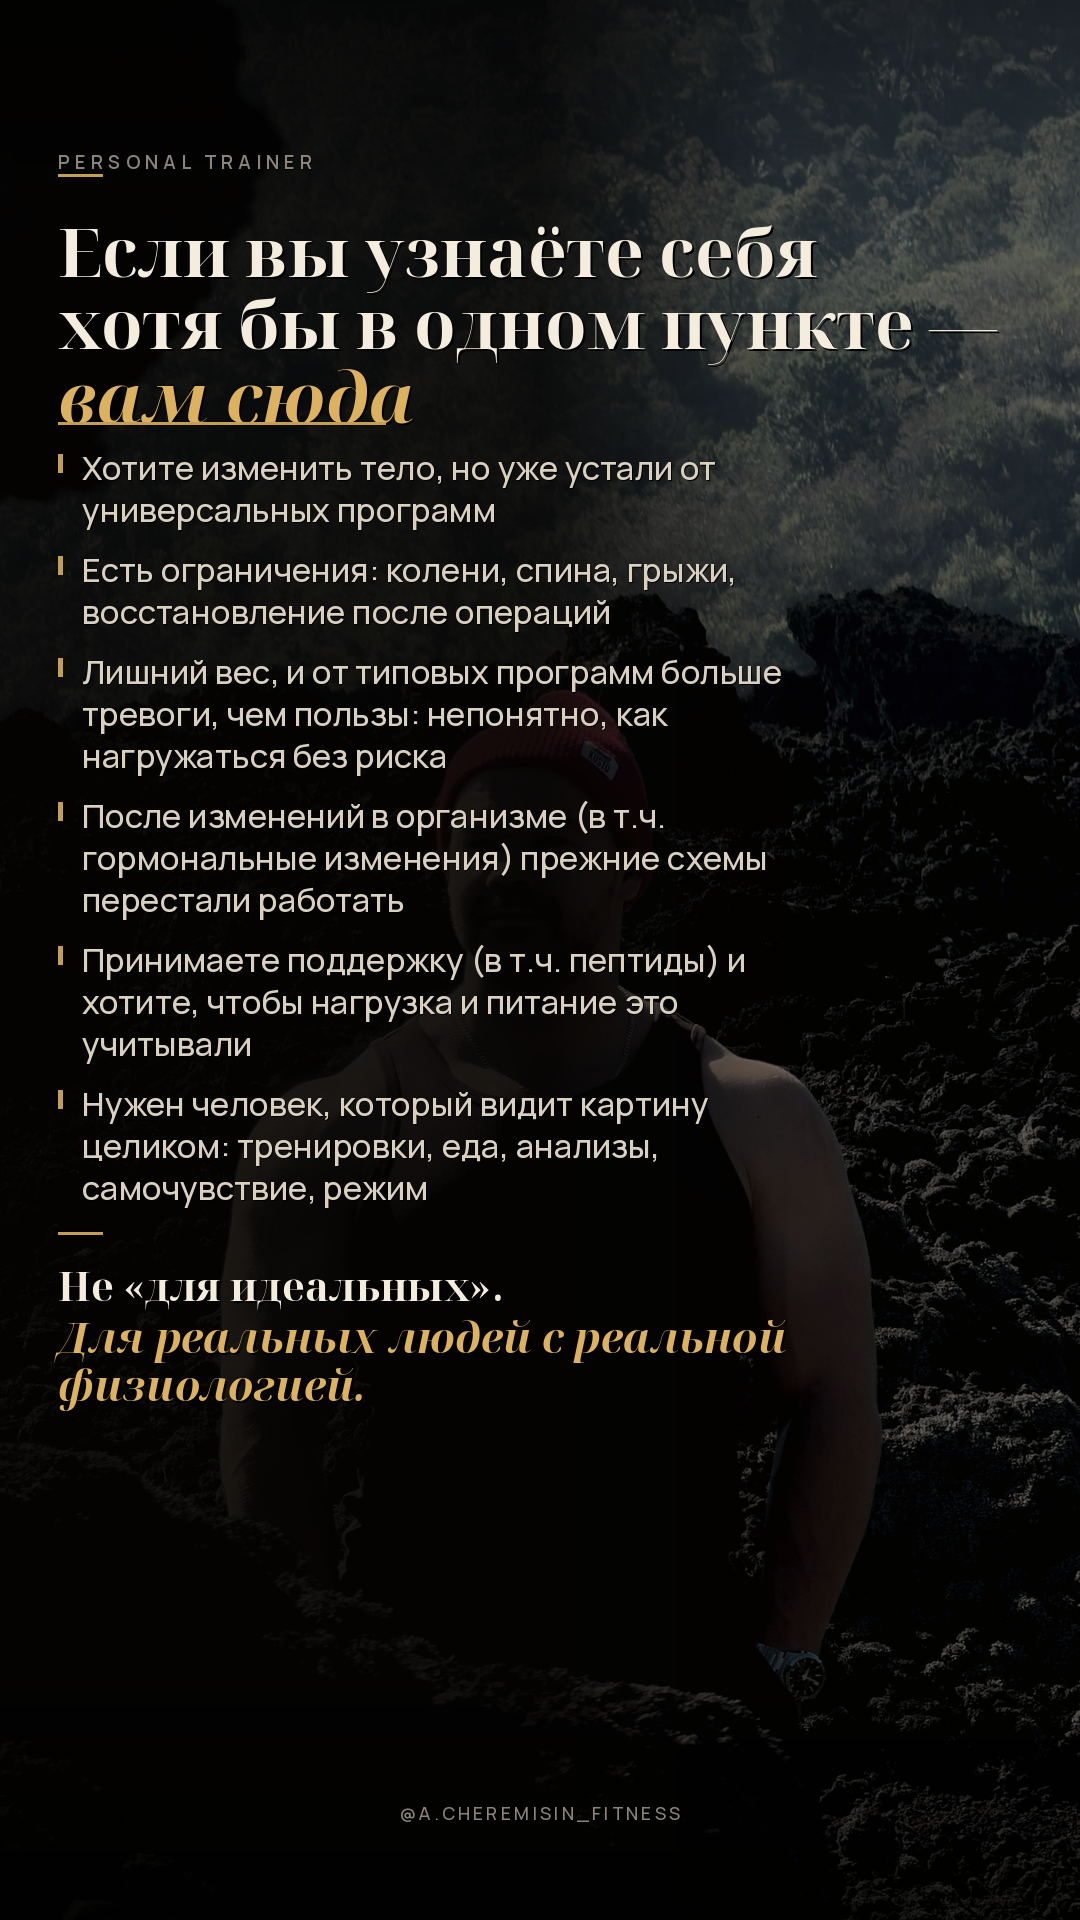
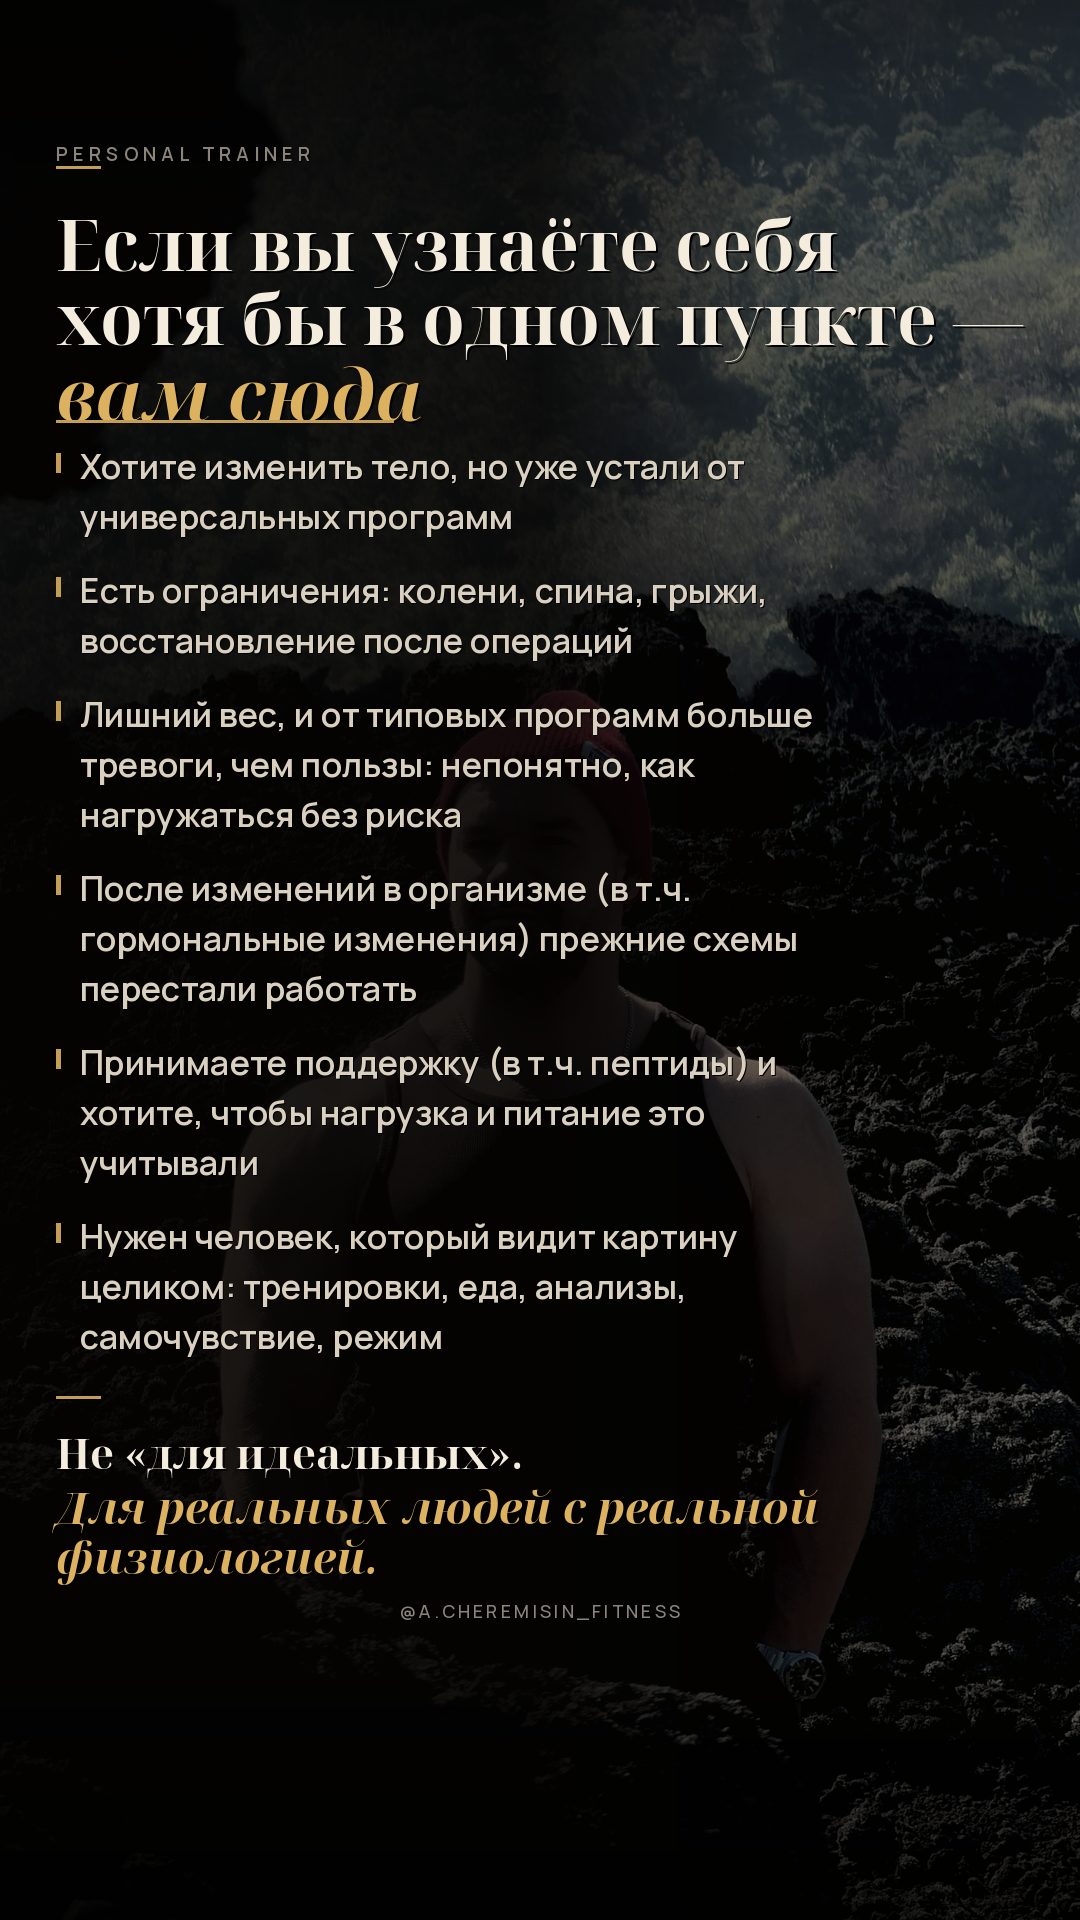
Improve story readability: larger type, even rhythm, darker wash
Fill the frame with larger Didone/sans type and balanced leading
instead of oversized empty gaps; darken the photo underlay slightly.

Changed region(s): [[0.0611, 0.0625, 0.8861, 0.8438], [0.2444, 0.0625, 0.275, 0.0938], [0.1833, 0.0625, 0.2139, 0.0938]]

diff --git a/create_story.py b/create_story.py
@@ -24,11 +24,11 @@ MUTED = (138, 132, 122)
 
 NOTO = Path("/usr/share/fonts/truetype/noto")
 # Larger, more readable type
-font_hook = ImageFont.truetype(str(NOTO / "NotoSerifDisplay-Bold.ttf"), 68)
-font_hook_it = ImageFont.truetype(str(NOTO / "NotoSerifDisplay-BoldItalic.ttf"), 70)
-font_close = ImageFont.truetype(str(NOTO / "NotoSerifDisplay-Bold.ttf"), 40)
-font_close_it = ImageFont.truetype(str(NOTO / "NotoSerifDisplay-BoldItalic.ttf"), 42)
-font_body = ImageFont.truetype(str(FONTS / "MR-500.ttf"), 33)
+font_hook = ImageFont.truetype(str(NOTO / "NotoSerifDisplay-Bold.ttf"), 70)
+font_hook_it = ImageFont.truetype(str(NOTO / "NotoSerifDisplay-BoldItalic.ttf"), 72)
+font_close = ImageFont.truetype(str(NOTO / "NotoSerifDisplay-Bold.ttf"), 42)
+font_close_it = ImageFont.truetype(str(NOTO / "NotoSerifDisplay-BoldItalic.ttf"), 44)
+font_body = ImageFont.truetype(str(FONTS / "MR-600.ttf"), 34)
 font_label = ImageFont.truetype(str(FONTS / "MR-600.ttf"), 19)
 font_handle = ImageFont.truetype(str(FONTS / "MR-500.ttf"), 18)
 
@@ -119,23 +119,10 @@ def build(photo_path: Path, out_name: str, focus=(0.65, 0.28)):
     canvas = base.convert("RGBA")
     draw = ImageDraw.Draw(canvas)
 
-    margin = 58
-    content_w = 780  # wide readable lines
-    y = 148
-
-    spaced_label(draw, "PERSONAL TRAINER", font_label, (margin, y), MUTED, tracking=5)
-    y += 26
-    draw.rectangle([margin, y, margin + 44, y + 2], fill=GOLD_SOFT)
-    y += 30
-
-    for line in ("Если вы узнаёте себя", "хотя бы в одном пункте —"):
-        shadow_text(draw, (margin, y), line, font_hook, CREAM, offset=2)
-        y += 72
-
-    shadow_text(draw, (margin, y), "вам сюда", font_hook_it, GOLD, offset=2)
-    aw = draw.textlength("вам сюда", font=font_hook_it)
-    draw.rectangle([margin, y + 74, margin + aw * 0.92, y + 76], fill=GOLD_SOFT)
-    y += 96
+    margin = 56
+    content_w = 800
+    y0 = 140
+    target_bottom = 1765
 
     bullets = [
         "Хотите изменить тело, но уже устали от универсальных программ",
@@ -145,38 +132,74 @@ def build(photo_path: Path, out_name: str, focus=(0.65, 0.28)):
         "Принимаете поддержку (в т.ч. пептиды) и хотите, чтобы нагрузка и питание это учитывали",
         "Нужен человек, который видит картину целиком: тренировки, еда, анализы, самочувствие, режим",
     ]
+    wrapped = [wrap_text(item, font_body, content_w - 30, draw) for item in bullets]
+    close_lines = wrap_text(
+        "Для реальных людей с реальной физиологией.", font_close_it, content_w, draw
+    )
+    body_lines = sum(len(lines) for lines in wrapped)
 
-    line_h = 42      # breathable leading
-    block_gap = 18   # even gap between points — no huge voids
+    # Base metrics, then absorb leftover into line_h + modest block gaps
+    hook_lh, accent_h, close_lh = 74, 98, 50
+    header_h = 56
+    close_block = 10 + 28 + 52 + close_lh * len(close_lines)
+    base_line_h, base_gap = 40, 14
+    fixed_base = (
+        header_h
+        + hook_lh * 2
+        + accent_h
+        + body_lines * base_line_h
+        + len(bullets) * base_gap
+        + close_block
+    )
+    leftover = max(0, target_bottom - y0 - fixed_base - 55)
+    # Prefer readable leading over big empty gaps
+    extra_line = min(10, leftover // max(1, body_lines))
+    leftover -= extra_line * body_lines
+    extra_gap = min(10, leftover // max(1, len(bullets)))
+    line_h = base_line_h + extra_line
+    block_gap = base_gap + extra_gap
 
-    for item in bullets:
-        lines = wrap_text(item, font_body, content_w - 30, draw)
-        draw.rectangle([margin, y + 10, margin + 4, y + 28], fill=GOLD_SOFT)
+    y = y0
+    spaced_label(draw, "PERSONAL TRAINER", font_label, (margin, y), MUTED, tracking=5)
+    y += 26
+    draw.rectangle([margin, y, margin + 44, y + 2], fill=GOLD_SOFT)
+    y += 30
+
+    for line in ("Если вы узнаёте себя", "хотя бы в одном пункте —"):
+        shadow_text(draw, (margin, y), line, font_hook, CREAM, offset=2)
+        y += hook_lh
+
+    shadow_text(draw, (margin, y), "вам сюда", font_hook_it, GOLD, offset=2)
+    aw = draw.textlength("вам сюда", font=font_hook_it)
+    draw.rectangle([margin, y + 76, margin + aw * 0.92, y + 78], fill=GOLD_SOFT)
+    y += accent_h
+
+    for lines in wrapped:
+        draw.rectangle([margin, y + 11, margin + 4, y + 30], fill=GOLD_SOFT)
         tx = margin + 24
         for line in lines:
             shadow_text(draw, (tx, y), line, font_body, CREAM_DIM, offset=1)
             y += line_h
         y += block_gap
 
-    y += 8
+    y += 10
     draw.rectangle([margin, y, margin + 44, y + 2], fill=GOLD_SOFT)
-    y += 26
+    y += 28
     shadow_text(draw, (margin, y), "Не «для идеальных».", font_close, CREAM, offset=2)
-    y += 50
-    close = "Для реальных людей с реальной физиологией."
-    for line in wrap_text(close, font_close_it, content_w, draw):
+    y += 52
+    for line in close_lines:
         shadow_text(draw, (margin, y), line, font_close_it, GOLD, offset=2)
-        y += 48
+        y += close_lh
 
     handle = "@A.CHEREMISIN_FITNESS"
     total = sum(draw.textlength(ch, font=font_handle) + 3 for ch in handle) - 3
-    handle_y = min(H - 90, max(y + 28, H - 120))
+    handle_y = min(H - 86, y + 22)
     spaced_label(draw, handle, font_handle, ((W - total) / 2, handle_y), MUTED, tracking=3)
 
     final = canvas.convert("RGB")
     for dest in (OUT / out_name, ART / out_name):
         final.save(dest, "PNG")
-        print("saved", dest, "content_end_y=", y)
+        print("saved", dest, "end=", y, "gap=", block_gap)
     return OUT / out_name
 
 
